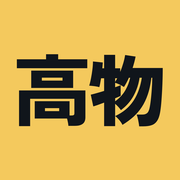
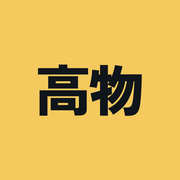
ホーム画面アイコンの欠けと名前を修正（実機iPhoneでの指摘）
① アイコンが「高物」の途中で切れて一文字分しか見えていなかった。
   原因はファイルではなく余白。配信物は原本と画素差0.00で正しかった。
   iOSがmanifestのアイコンを拾い、マスカブル扱いで中央を切り出して
   拡大するため、文字が幅81%あると両端が画面外に出ていた。
   手元で中央56.6%切り出し＋×1.77拡大を当てたところ症状を再現できた。

   ホーム画面用の3枚（apple-touch-icon / icon-192 / icon-512）を
   文字幅57%に組み直した。安全円80%で切られる通常ケース(×1.25)で72%、
   内接正方形で切られる最悪ケース(×1.77)でも102%に収まり、
   どちらでも「高物」が両字とも残ることを確認済み。

   あわせて manifest のアイコンを全部この同一意匠にし、purpose も
   "any maskable" に統一した。以前は「字が大きいany版」と「余白付きの
   maskable版」が混在しており、iOSがどちらを拾うかで結果が変わっていた。
   専用ファイル icon-maskable-512.png は不要になったので削除。

   favicon.ico は据え置き。ブラウザのタブは切り取らないので、
   16/32/48 は字が大きいままのほうがよい。

② ホーム画面の名前に <title> 全文が使われていた。iOSの「ホーム画面に
   追加」は manifest の short_name を見ないため、
   apple-mobile-web-app-title を追加した。あわせて apple-touch-icon に
   sizes="180x180" を明示（iOSはsizesで選ぶ）。

適用は実ページ6枚。juyomon/index.html は0秒リダイレクトの中継なので対象外。

Changed region(s): [[0.0833, 0.2778, 0.9167, 0.7222]]

diff --git a/lissajous/index.html b/lissajous/index.html
@@ -6,8 +6,9 @@
 
 <!-- ▼ アイコン一式。パスは各ページからの相対（配信先が変わっても書き換え不要） -->
 <link rel="icon" href="../favicon.ico" sizes="16x16 32x32 48x48">
-<link rel="apple-touch-icon" href="../apple-touch-icon.png">
+<link rel="apple-touch-icon" sizes="180x180" href="../apple-touch-icon.png">
 <link rel="manifest" href="../site.webmanifest">
+<meta name="apple-mobile-web-app-title" content="高校物理解説チャンネル">
 <meta name="theme-color" content="#10151b">
 
 <!-- 検索エンジンに載せない。サイト内のどこからもリンクしていない -->

diff --git a/resonance/index.html b/resonance/index.html
@@ -6,8 +6,9 @@
 
 <!-- ▼ アイコン一式。パスは各ページからの相対（配信先が変わっても書き換え不要） -->
 <link rel="icon" href="../favicon.ico" sizes="16x16 32x32 48x48">
-<link rel="apple-touch-icon" href="../apple-touch-icon.png">
+<link rel="apple-touch-icon" sizes="180x180" href="../apple-touch-icon.png">
 <link rel="manifest" href="../site.webmanifest">
+<meta name="apple-mobile-web-app-title" content="高校物理解説チャンネル">
 <meta name="theme-color" content="#10151b">
 <meta name="robots" content="noindex, nofollow">
 

diff --git a/juyomon/2025/index.html b/juyomon/2025/index.html
@@ -6,8 +6,9 @@
 
 <!-- ▼ アイコン一式。パスは各ページからの相対（配信先が変わっても書き換え不要） -->
 <link rel="icon" href="../../favicon.ico" sizes="16x16 32x32 48x48">
-<link rel="apple-touch-icon" href="../../apple-touch-icon.png">
+<link rel="apple-touch-icon" sizes="180x180" href="../../apple-touch-icon.png">
 <link rel="manifest" href="../../site.webmanifest">
+<meta name="apple-mobile-web-app-title" content="高校物理解説チャンネル">
 <meta name="theme-color" content="#10151b">
 
 <!-- Google tag (gtag.js) -->

diff --git a/juyomon/2026/index.html b/juyomon/2026/index.html
@@ -6,8 +6,9 @@
 
 <!-- ▼ アイコン一式。パスは各ページからの相対（配信先が変わっても書き換え不要） -->
 <link rel="icon" href="../../favicon.ico" sizes="16x16 32x32 48x48">
-<link rel="apple-touch-icon" href="../../apple-touch-icon.png">
+<link rel="apple-touch-icon" sizes="180x180" href="../../apple-touch-icon.png">
 <link rel="manifest" href="../../site.webmanifest">
+<meta name="apple-mobile-web-app-title" content="高校物理解説チャンネル">
 <meta name="theme-color" content="#10151b">
 
 <!-- Google tag (gtag.js) -->

diff --git a/index.html b/index.html
@@ -23,8 +23,9 @@
 
 <!-- ▼ アイコン一式。パスは各ページからの相対（配信先が変わっても書き換え不要） -->
 <link rel="icon" href="favicon.ico" sizes="16x16 32x32 48x48">
-<link rel="apple-touch-icon" href="apple-touch-icon.png">
+<link rel="apple-touch-icon" sizes="180x180" href="apple-touch-icon.png">
 <link rel="manifest" href="site.webmanifest">
+<meta name="apple-mobile-web-app-title" content="高校物理解説チャンネル">
 <meta name="theme-color" content="#10151b">
 
 <meta property="og:type" content="website">

diff --git a/physica-about/index.html b/physica-about/index.html
@@ -6,8 +6,9 @@
 
 <!-- ▼ アイコン一式。パスは各ページからの相対（配信先が変わっても書き換え不要） -->
 <link rel="icon" href="../favicon.ico" sizes="16x16 32x32 48x48">
-<link rel="apple-touch-icon" href="../apple-touch-icon.png">
+<link rel="apple-touch-icon" sizes="180x180" href="../apple-touch-icon.png">
 <link rel="manifest" href="../site.webmanifest">
+<meta name="apple-mobile-web-app-title" content="高校物理解説チャンネル">
 <meta name="theme-color" content="#10151b">
 
 <!-- Google tag (gtag.js) -->
